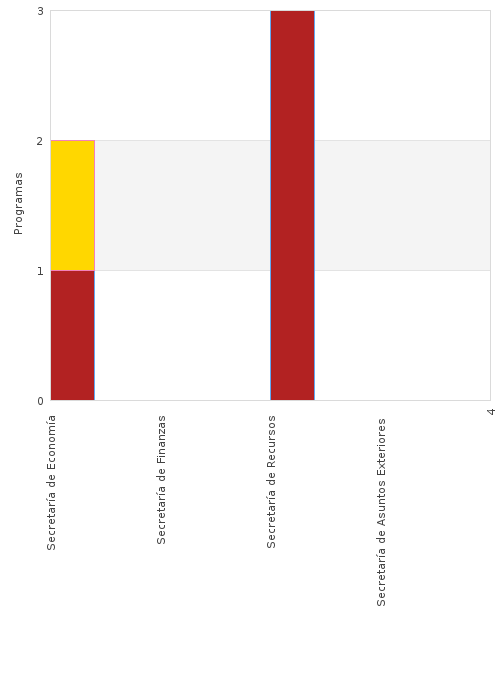
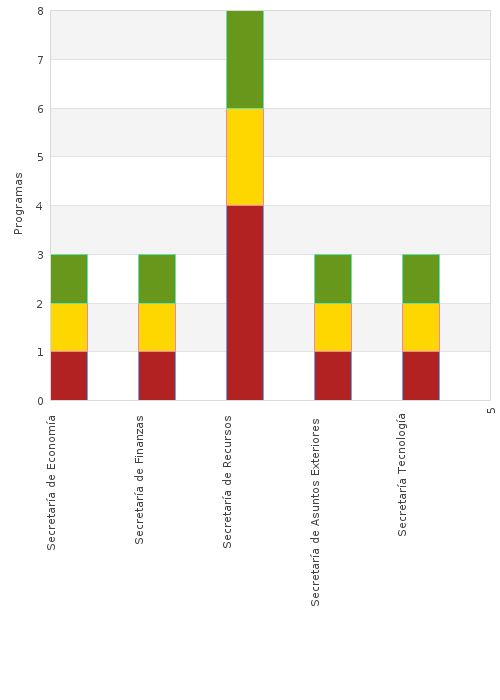
ultimo adds

diff --git a/SCB/pro_dropdown_3/pro_dropdown_3.css b/SCB/pro_dropdown_3/pro_dropdown_3.css
@@ -1,0 +1,55 @@
+.preload1 {background: url(three_0a.gif);}
+.preload2 {background: url(three_1a.gif);}
+
+#nav {padding:0; margin:0; list-style:none; height:38px; background:#fff url(three_0.gif) repeat-x; position:relative; z-index:500; font-family:arial, verdana, sans-serif;}
+#nav li.top {display:block; float:left;}
+#nav li a.top_link {display:block; float:left; height:35px; line-height:33px; color:#ccc; text-decoration:none; font-size:11px; font-weight:bold; padding:0 0 0 12px; cursor:pointer;background: url(three_0.gif);}
+#nav li a.top_link span {float:left; display:block; padding:0 24px 0 12px; height:35px; background: url(three_0.gif) right top no-repeat;}
+#nav li a.top_link span.down {float:left; display:block; padding:0 24px 0 12px; height:35px; background: url(three_0a.gif) no-repeat right top;}
+
+#nav li:hover a.top_link {color:#fff; background: url(three_1.gif) no-repeat;}
+#nav li:hover a.top_link span {background:url(three_1.gif) no-repeat right top;}
+#nav li:hover a.top_link span.down {background:url(three_1a.gif) no-repeat right top; padding-bottom:3px;}
+
+/* Default list styling */
+
+#nav li:hover {position:relative; z-index:200;}
+
+#nav li:hover ul.sub
+{left:1px; top:38px; background: #50b5d0; padding:3px; border:1px solid #0b4d97; white-space:nowrap; width:90px; height:auto; z-index:300;}
+#nav li:hover ul.sub li
+{display:block; height:20px; position:relative; float:left; width:90px; font-weight:normal;}
+#nav li:hover ul.sub li a
+{display:block; font-size:11px; height:18px; width:88px; line-height:18px; text-indent:5px; color:#000; text-decoration:none;border:1px solid #50b5d0;}
+#nav li ul.sub li a.fly
+{background:#50b5d0 url(arrow.gif) 1000px 1000px no-repeat;}
+#nav li:hover ul.sub li a:hover 
+{background:#3f96a9; color:#fff; border-color:#fff;}
+#nav li:hover ul.sub li a.fly:hover
+{background:#3f96a9 url(arrow_over.gif) 80px 6px no-repeat; color:#fff;}
+
+#nav li b {display:block; font-size:11px; height:18px; width:88px; line-height:18px; margin-bottom:3px; text-indent:6px; color:#FCFCFC; border-bottom:1px solid #FCFCFC; cursor:default;}
+
+#nav li:hover li:hover ul,
+#nav li:hover li:hover li:hover ul,
+#nav li:hover li:hover li:hover li:hover ul,
+#nav li:hover li:hover li:hover li:hover li:hover ul
+{left:90px; top:-4px; background: #50b5d0; padding:3px; border:1px solid #0b4d97; white-space:nowrap; width:90px; z-index:400; height:auto;}
+
+#nav ul, 
+#nav li:hover ul ul,
+#nav li:hover li:hover ul ul,
+#nav li:hover li:hover li:hover ul ul,
+#nav li:hover li:hover li:hover li:hover ul ul
+{position:absolute; left:-9999px; top:-9999px; width:0; height:0; margin:0; padding:0; list-style:none;}
+
+#nav li:hover li:hover a.fly,
+#nav li:hover li:hover li:hover a.fly,
+#nav li:hover li:hover li:hover li:hover a.fly,
+#nav li:hover li:hover li:hover li:hover li:hover a.fly
+{background:#3f96a9 url(arrow_over.gif) 80px 6px no-repeat; color:#fff; border-color:#fff;} 
+
+#nav li:hover li:hover li a.fly,
+#nav li:hover li:hover li:hover li a.fly,
+#nav li:hover li:hover li:hover li:hover li a.fly
+{background:#50b5d0 url(arrow.gif) 80px 6px no-repeat; color:#000; border-color:#50b5d0;} 

diff --git a/SCB/index.html b/SCB/index.html
@@ -1,0 +1,49 @@
+<!DOCTYPE html PUBLIC "-//W3C//DTD XHTML 1.0 Strict//EN" "http://www.w3.org/TR/xhtml2/DTD/xhtml1-strict.dtd">
+<html xmlns="http://www.w3.org/1999/xhtml" xml:lang="en">
+<head>
+<meta http-equiv="Content-Type" content="text/html; charset=UTF-8" />
+<title> SCB SISTEMA DE CONTROL DE BENEFICIARIOS</title>
+<meta name="Author" content="Stu Nicholls" />
+
+<link rel="stylesheet" type="text/css" href="pro_dropdown_3/pro_dropdown_3.css" />
+
+<script src="pro_dropdown_3/stuHover.js" type="text/javascript"></script>
+
+</head>
+
+<body>
+
+
+<span class="preload1"></span>
+<span class="preload2"></span>
+
+<ul id="nav">
+	<li class="top"><a href="#nogo2" class="top_link"><span>HOME</span></a></li>
+	<li class="top"><a href="#nogo2" id="products" class="top_link"><span class="down">CATALAGOS</span></a>
+		<ul class="sub">
+			<li><a href="presentacion/anioFiscal/listar_anio.php" class="fly"><b>ALTA AÑOS FISCALES</a></b></li>
+			<li><a href="presentacion/programa/listar_programa.php" class="fly"><b>ALTA PROGRAMA</a></b></li>
+			<li><a href="presentacion/programa/listar_dependencia.php" class="fly"><b>ALTA DEPENDENCIA</a></b></li>
+			<li><a href="presentacion/programa/listar_beneficiario.php" class="fly"><b>ALTA BENEFICIARIO</a></b></li>
+			<li><a href="presentacion/programa/listar_encargado.php" class="fly"><b>ALTA ENCARGADO</a></b></li>
+			<li><a href="presentacion/programa/listar_betados.php" class="fly"><b>ALTA BETADOS</a></b></li>			
+		</ul>
+	</li>
+
+	<li class="top"><a href="#nogo2" id="products" class="top_link"><span class="down">REPORTES</span></a>
+		<ul class="sub">
+		    <li><a href="presentacion/programa/listar_betados.php" class="fly"><b>ALTA AÑOS FISCALES</a></b></li>
+			<li><a href="presentacion/programa/reporte_dependencias.php" class="fly"><b>REPORTE DEPENDENCIA</a></b></li>			
+			<li><a href="presentacion/programa/listar_betados.php" class="fly"><b>REPORTE PROGRAMAS</a></b></li>
+			<li><a href="presentacion/programa/listar_betados.php" class="fly"><b>REPORTE BENEFICIARIO</a></b></li>
+			<li><a href="presentacion/programa/listar_betados.php" class="fly"><b>INFORMACION BENEFICIARIOS</a></b></li>
+			
+			
+		</ul>
+	</li>
+	<li class="top"><a href="#nogo2" id="products" class="top_link"><span class="down">SALIR</span></a>
+	</li>
+</ul>
+
+</body>
+</html>

diff --git a/SCB/pro_dropdown_3/stuHover.js b/SCB/pro_dropdown_3/stuHover.js
@@ -1,0 +1,35 @@
+/* ================================================================ 
+This copyright notice must be kept untouched in the stylesheet at 
+all times.
+
+The original version of this script and the associated (x)html
+is available at http://www.stunicholls.com/menu/pro_drop_1.html
+Copyright (c) 2005-2007 Stu Nicholls. All rights reserved.
+This script and the associated (x)html may be modified in any 
+way to fit your requirements.
+=================================================================== */
+stuHover = function() {
+	var cssRule;
+	var newSelector;
+	for (var i = 0; i < document.styleSheets.length; i++)
+		for (var x = 0; x < document.styleSheets[i].rules.length ; x++)
+			{
+			cssRule = document.styleSheets[i].rules[x];
+			if (cssRule.selectorText.indexOf("LI:hover") != -1)
+			{
+				 newSelector = cssRule.selectorText.replace(/LI:hover/gi, "LI.iehover");
+				document.styleSheets[i].addRule(newSelector , cssRule.style.cssText);
+			}
+		}
+	var getElm = document.getElementById("nav").getElementsByTagName("LI");
+	for (var i=0; i<getElm.length; i++) {
+		getElm[i].onmouseover=function() {
+			this.className+=" iehover";
+		}
+		getElm[i].onmouseout=function() {
+			this.className=this.className.replace(new RegExp(" iehover\\b"), "");
+		}
+	}
+}
+if (window.attachEvent) window.attachEvent("onload", stuHover);
+

diff --git a/final/index.html b/final/index.html
@@ -1,0 +1,44 @@
+<head>
+<meta charset="utf-8" />
+<title>Login Usuarios </title>
+<script type="text/javascript">
+            	
+	function direccionar(){
+	        usuario = document.form.usuario.value;
+            
+		    //if(usuario == "admin"){
+				
+			
+			 location.href="presentacion/beneficiario/listar_beneficiario.php";
+			
+		}
+	</script>	
+	
+	<link rel="stylesheet" type="text/css" href="bbl/lib/style.css" />
+	<link rel="stylesheet" type="text/css" href="bbl/lib/screen.css" />
+	</head>
+	<body>
+	<hr />
+		<br/><br/><br/>
+		<form name="form" method="post" action="">
+		<table>
+			<tr>
+				<td>
+					<label>Usuario:</label>				</td>
+				<td	>
+					<input type="text" name="usuario" id="usuario" size="25"/>				</td>		
+			</tr>	
+			<tr>
+				<td>
+					<label>Contrase&ntilde;a:</label>				</td>
+				<td>
+					<input type="password" name="pass" id="pass" size="25"/>				</td>
+			</tr>
+			<tr>
+				<td></td>
+				<td><input type="button" name="enviar" value="Entrar" onclick="direccionar ()"/></td>
+			</tr>	
+		</table>
+	</form> 
+	</body>
+</html>

diff --git a/final/bbl/sql_reportes.php b/final/bbl/sql_reportes.php
@@ -88,19 +88,14 @@ class sql_reportes {
         $Conexion = conectar_bd();
         $Conexion->conectarse();
 		if($dependencia!=null){
-			echo("SELECT count(programabeneficiario.idPB) as total from dependencia
-			left JOIN programa on dependencia.id_dependencia = programa.dependencia_id_dependencia
-			LEFT join programabeneficiario on programabeneficiario.id_programa = programa.id_programa
-			and programabeneficiario.estatus = '".$estatus."' where programa.id_programa = '".
-			$idPrograma."' group BY id_dependencia");
-			
-			$list_programas = $Conexion->ejecutar("SELECT count(programabeneficiario.idPB) as total from dependencia
+
+			$list_programas = $Conexion->ejecutar("SELECT count(dependencia.id_dependencia) as total from dependencia
 			left JOIN programa on dependencia.id_dependencia = programa.dependencia_id_dependencia
 			LEFT join programabeneficiario on programabeneficiario.id_programa = programa.id_programa
 			and programabeneficiario.estatus = '".$estatus."' where id_dependencia = '".
 			$dependencia."' group BY id_dependencia");
 		}else{
-			$list_programas = $Conexion->ejecutar("SELECT count(programabeneficiario.idPB) as total from dependencia
+			$list_programas = $Conexion->ejecutar("SELECT count(dependencia.id_dependencia) as total from dependencia
 			left JOIN programa on dependencia.id_dependencia = programa.dependencia_id_dependencia
 			LEFT join programabeneficiario on programabeneficiario.id_programa = programa.id_programa
 			and programabeneficiario.estatus = '" . $estatus . "' 

diff --git a/final/bbl/lib/funciones_menu.php b/final/bbl/lib/funciones_menu.php
@@ -6,14 +6,22 @@ function Menu_administrador()
 $menu[1]['texto']= "Consultar";
 $menu[1]['link']= "../../presentacion/beneficiario/listar_programas.php";
 
-$menu[2]['texto']= "Modificar informaci&oacute;n";
-$menu[2]['link']= "../../presentacion/beneficiario/listar_beneficiario.php";
+$menu[3]['texto']= "Reporte Programas";
+$menu[3]['link']= "../../presentacion/reportes/reporte_programas.php";
+
+$menu[4]['texto']= "Reporte Dependencias";
+$menu[4]['link']= "../../presentacion/reportes/reporte_dependencias.php";
+
+$menu[5]['texto']= "Programa";
+$menu[5]['link']= "../../presentacion/programa/listar_programa.php";
+
+$menu[6]['texto']= "Beneficiario";
+$menu[6]['link']= "../../presentacion/beneficiario/listar_beneficiario.php";
+
+$menu[7]['texto']= "Dependencia";
+$menu[7]['link']= "../../presentacion/dependencia/listar_dependencia.php";
 
 
-$menu[3]['link']="../acceso/logout.php";
-$menu[3]['texto']="Salir";
-
-$menu[1]['estatus']=" class='current' ";
 return $menu;
 }
 
